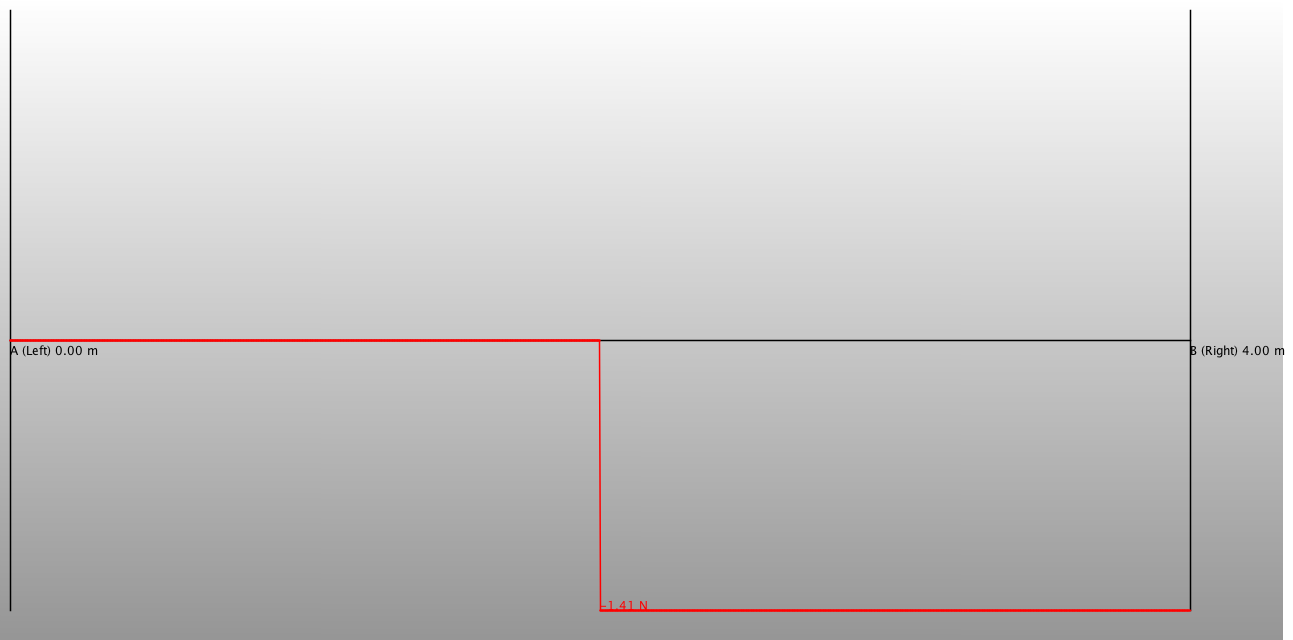
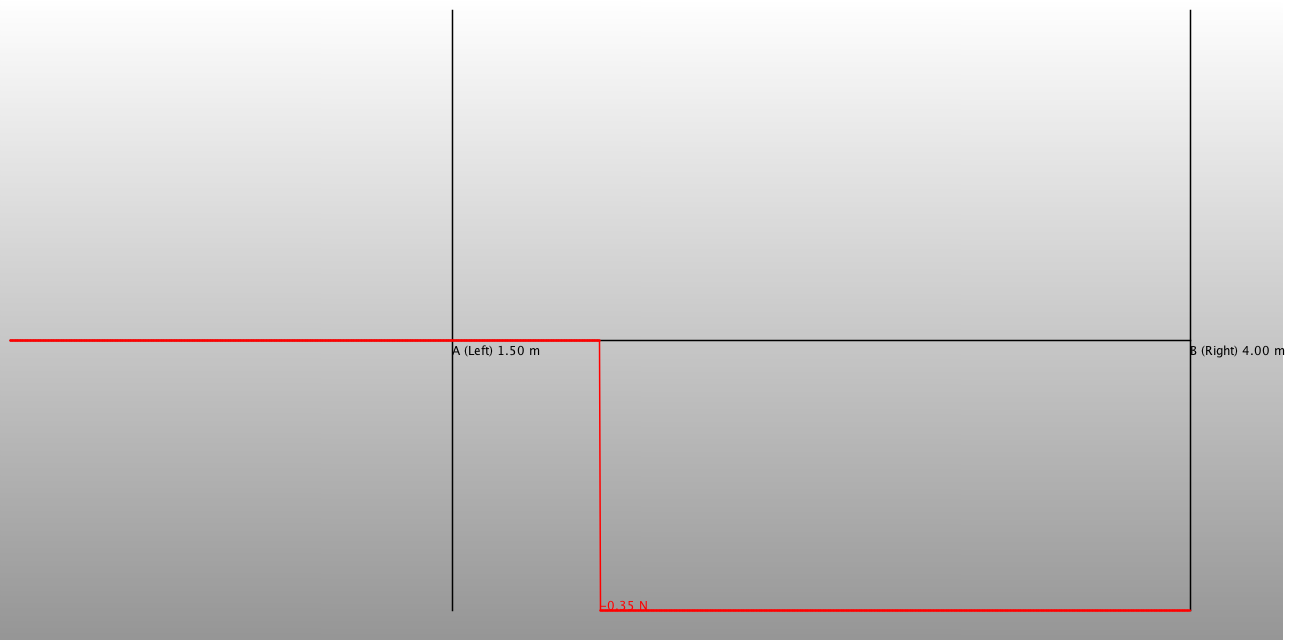
Tests

Changed region(s): [[0.3403, 0.5312, 0.4022, 0.5625], [0.0, 0.5312, 0.0619, 0.5625], [0.464, 0.9375, 0.495, 0.9688]]

diff --git a/src/MainBeamCalculator.java b/src/MainBeamCalculator.java
@@ -19,12 +19,12 @@ public class MainBeamCalculator {
 
 		// Create a new beam
 		Beam myBeam = new Beam(4);
-		myBeam.addBearing(new Support("A (Left)", 0, Support.ROLLER_SUPPORT));
+		myBeam.addBearing(new Support("A (Left)", 1.5, Support.ROLLER_SUPPORT));
 		myBeam.addBearing(new Support("B (Right)", 4, Support.PIN_SUPPORT));
 		
 		// Add load
 		// NAME/ Force/ Distance/ Angle /Length
-		myBeam.addLoad(new Load("F1", -2.0, 2, 45, 0));
+		myBeam.addLoad(new Load("F1", -2.0, 2, 10, 0));
 		myBeam.addLoad(new Load("q1", -5, 0, 0,4));
 
 		// Show beam info
